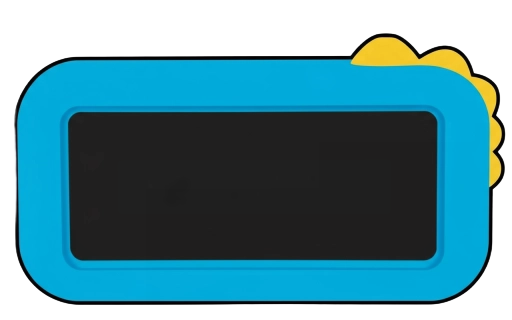
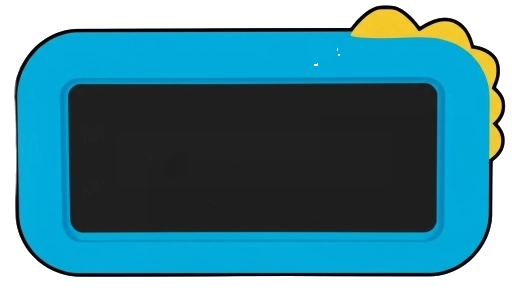
fix: play a note regardless of the keyboard layout

diff --git a/virtual-musical-kit/index.js b/virtual-musical-kit/index.js
@@ -16,7 +16,7 @@ function createElement(options) {
   children.forEach (childOptions => {
     createElement ({
       ...childOptions,
-      parent: element
+      parent: element,
     });
   });
   return element;
@@ -34,28 +34,28 @@ const mainElement = createElement({
   parent: bodyElement,
 })
 
-const keyWhiteClasses = ['key_A', 'key_S', 'key_D', 'key_F', 'key_G', 'key_H', 'key_J', 'key_K', 'key_L', 'key_M',];
-const keyBlackClasses = ['key_W','key_E', 'key_R', 'key_T', 'key_Y', 'key_U', 'key_I'];
+const keyWhiteClasses = ['KeyA', 'KeyS', 'KeyD', 'KeyF', 'KeyG', 'KeyH', 'KeyJ', 'KeyK', 'KeyL', 'KeyM',];
+const keyBlackClasses = ['KeyW','KeyE', 'KeyR', 'KeyT', 'KeyY', 'KeyU', 'KeyI'];
 const keyLabels = {
-  key_A: 'A',
-  key_S: 'S',
-  key_D: 'D',
-  key_F: 'F',
-  key_G: 'G',
-  key_H: 'H',
-  key_J: 'J',
-  key_K: 'K',
-  key_L: 'L',
-  key_M: 'M',
+  KeyA: 'A',
+  KeyS: 'S',
+  KeyD: 'D',
+  KeyF: 'F',
+  KeyG: 'G',
+  KeyH: 'H',
+  KeyJ: 'J',
+  KeyK: 'K',
+  KeyL: 'L',
+  KeyM: 'M',
 };
 const keyBlackLabels = {
-  key_W: 'W',
-  key_E: 'E',
-  key_R: 'R',
-  key_T: 'T',
-  key_Y: 'Y',
-  key_U: 'U',
-  key_I: 'I',
+  KeyW: 'W',
+  KeyE: 'E',
+  KeyR: 'R',
+  KeyT: 'T',
+  KeyY: 'Y',
+  KeyU: 'U',
+  KeyI: 'I',
 };
 
 const allKeys = {
@@ -219,13 +219,9 @@ let isActiveKey = false;
 window.addEventListener('keydown', (event) => {
   if (isActiveKey) return;
   isActiveKey = true;
-  const pressedKey = event.key.toUpperCase();
 
-  const matchedEntry = Object.entries(allKeys)
-    .find(([className, letter]) => letter.toUpperCase() === pressedKey);
-
-  if (matchedEntry) {
-    const [className] = matchedEntry;
+   const className = event.code;
+  if (!(className in allKeys)) return;
     const sound = soundMap[className];
     if (sound) {
       sound.pause();
@@ -244,12 +240,35 @@ window.addEventListener('keydown', (event) => {
         keyDiv.style.background = isWhite ? 'white' : '';
       }, 300);
     }
-  }
-});
+  });
 
 window.addEventListener('keyup', () => {
   isActiveKey = false;
 });
+
+//melody
+const melody  = createElement ({
+  tag: 'section',
+  classes: ['melody'],
+  parent: bodyElement,
+});
+const melodytitle  = createElement ({
+  tag: 'h3',
+  classes: ['melody-title'],
+  parent: melody,
+  text: 'Enter the key sequence for the melody'
+});
+const melodyImput = createElement ({
+  tag: 'input',
+  classes: ['melody-input'],
+  parent: melody,
+});
+const melodyButton  = createElement ({
+  tag: 'button',
+  classes: ['melody-button'],
+  parent: melody,
+  text: 'Play',
+})
 
 
 //canvas with circles
@@ -351,9 +370,6 @@ for (let i = 0; i < 7; i++) {
   let type = i % 2 === 0 ? 1 : 2;
   circleArray.push(new Circle(x, y, dx,dy,radius, type));
 }
-
-
-
 
 function animate() {
   requestAnimationFrame(animate);

diff --git a/virtual-musical-kit/style.css b/virtual-musical-kit/style.css
@@ -19,7 +19,7 @@ h1 {
   background: url('./piano.png') no-repeat center center;
   background-size: contain;
   width: 763px;
-  height: 600px;
+  height: 436px;
   position: relative;
 }
 .keyWhite {
@@ -32,7 +32,7 @@ h1 {
   vertical-align: bottom;
   font-family: sans-serif;
   border-radius: 0 0 10px 10px;
-  margin-top: 227px;
+  margin-top: 125px;
   left: 102px;
   width: 55px;
   height: 223px;
@@ -58,7 +58,7 @@ h1 {
   text-align: center;
   font-family: sans-serif;
   border-radius: 0 0 10px 10px;
-  margin-top: 227px;
+  margin-top: 125px;
   width: 35px;
   height: 130px;
   z-index: 2;
@@ -68,35 +68,35 @@ h1 {
 .keyBlack:hover {
   background: #363636;
 }
-.key_W {
+.KeyW {
   margin-left: -410px;
 }
 
-.key_E {
-margin-left: -355px;
+.KeyE {
+  margin-left: -355px;
 }
-.key_R {
+.KeyR {
   margin-left: -245px;
 }
-.key_T {
+.KeyT {
   margin-left: -190px;
 }
-.key_Y {
-  margin-left: -135px
+.KeyY {
+  margin-left: -135px !important;
 }
-.key_U {
+.KeyU {
   margin-left: -25px;
 }
-.key_I {
+.KeyI {
   margin-left: 31px;
 }
 .label-wrapper {
   position: absolute;
   margin-top: 200px;
- color: #461d1d;
- font-weight: 800;
- width: 40px;
- margin-left: 7px;
+  color: #461d1d;
+  font-weight: 800;
+  width: 40px;
+  margin-left: 7px;
 }
 .edit-button {
   width: 0;
@@ -143,4 +143,19 @@ canvas {
   height: 100vh;
   z-index: 0;
   pointer-events: none;
+}
+.melody-input {
+  width: 230px;
+  height: 20px;
+  border-radius: 5px;
+}
+.melody-button{
+  margin-left: 15px;
+  height: 27px;
+  background-color: rgb(35, 151, 247);
+  border-radius: 5px;
+  width: 50px;
+}
+.melody-button:hover{
+  background-color:  rgb(236, 200, 40)
 }
